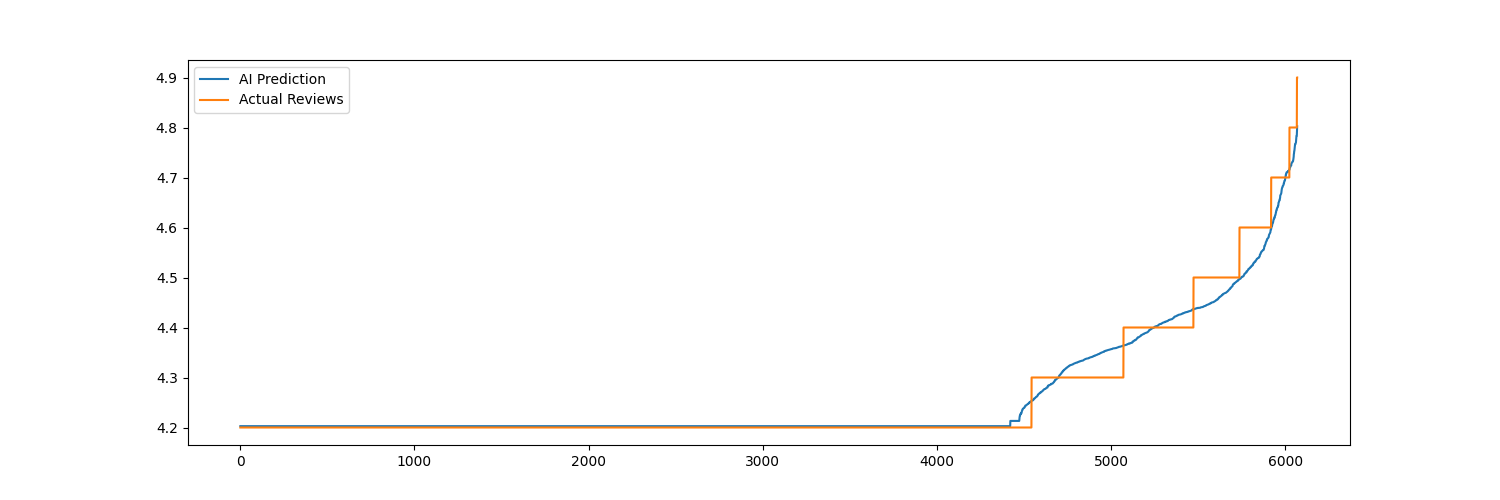
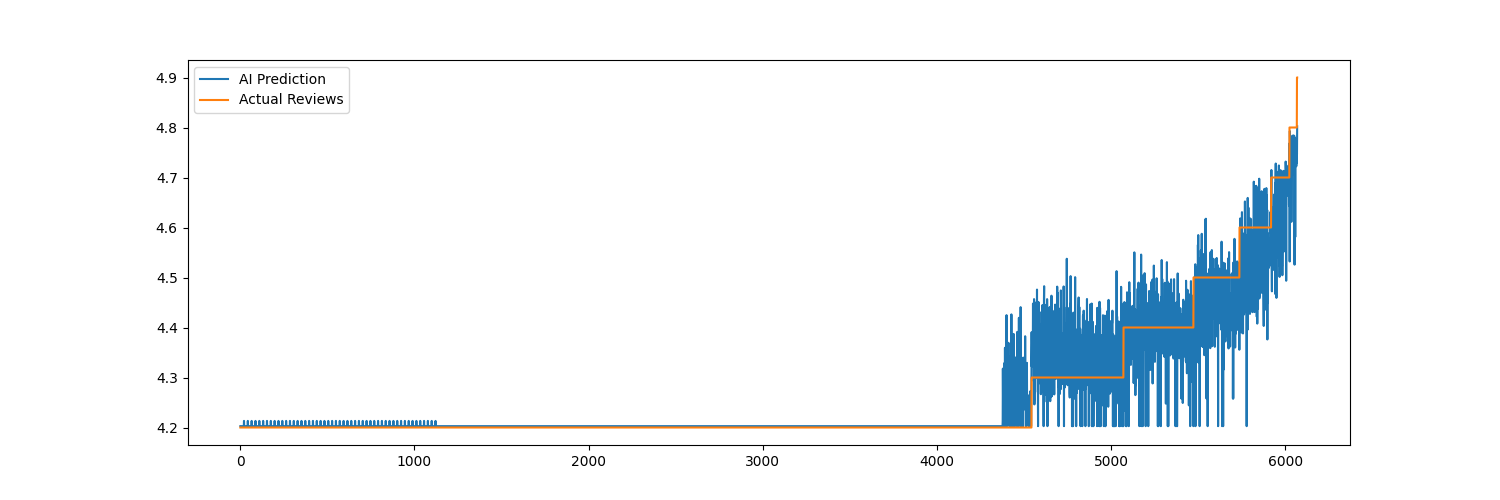
Fixed comparision

Changed region(s): [[0.644, 0.27, 0.8893, 0.87], [0.1533, 0.84, 0.3067, 0.87]]

diff --git a/visualize.py b/visualize.py
@@ -1,4 +1,5 @@
 import data_operations
+import numpy as np
 
 import pickle
 import matplotlib.pyplot as plt
@@ -25,7 +26,7 @@ def model_comparison(model_path, output_path):
 
     X, y = data_operations.get_data()
     y = sorted(y.to_numpy())
-    y_predictions = sorted(model.predict(X))
+    y_predictions = np.flip(model.predict(X))
 
     plt.figure(figsize=(15, 5))
     plt.plot(y_predictions, label='AI Prediction')
